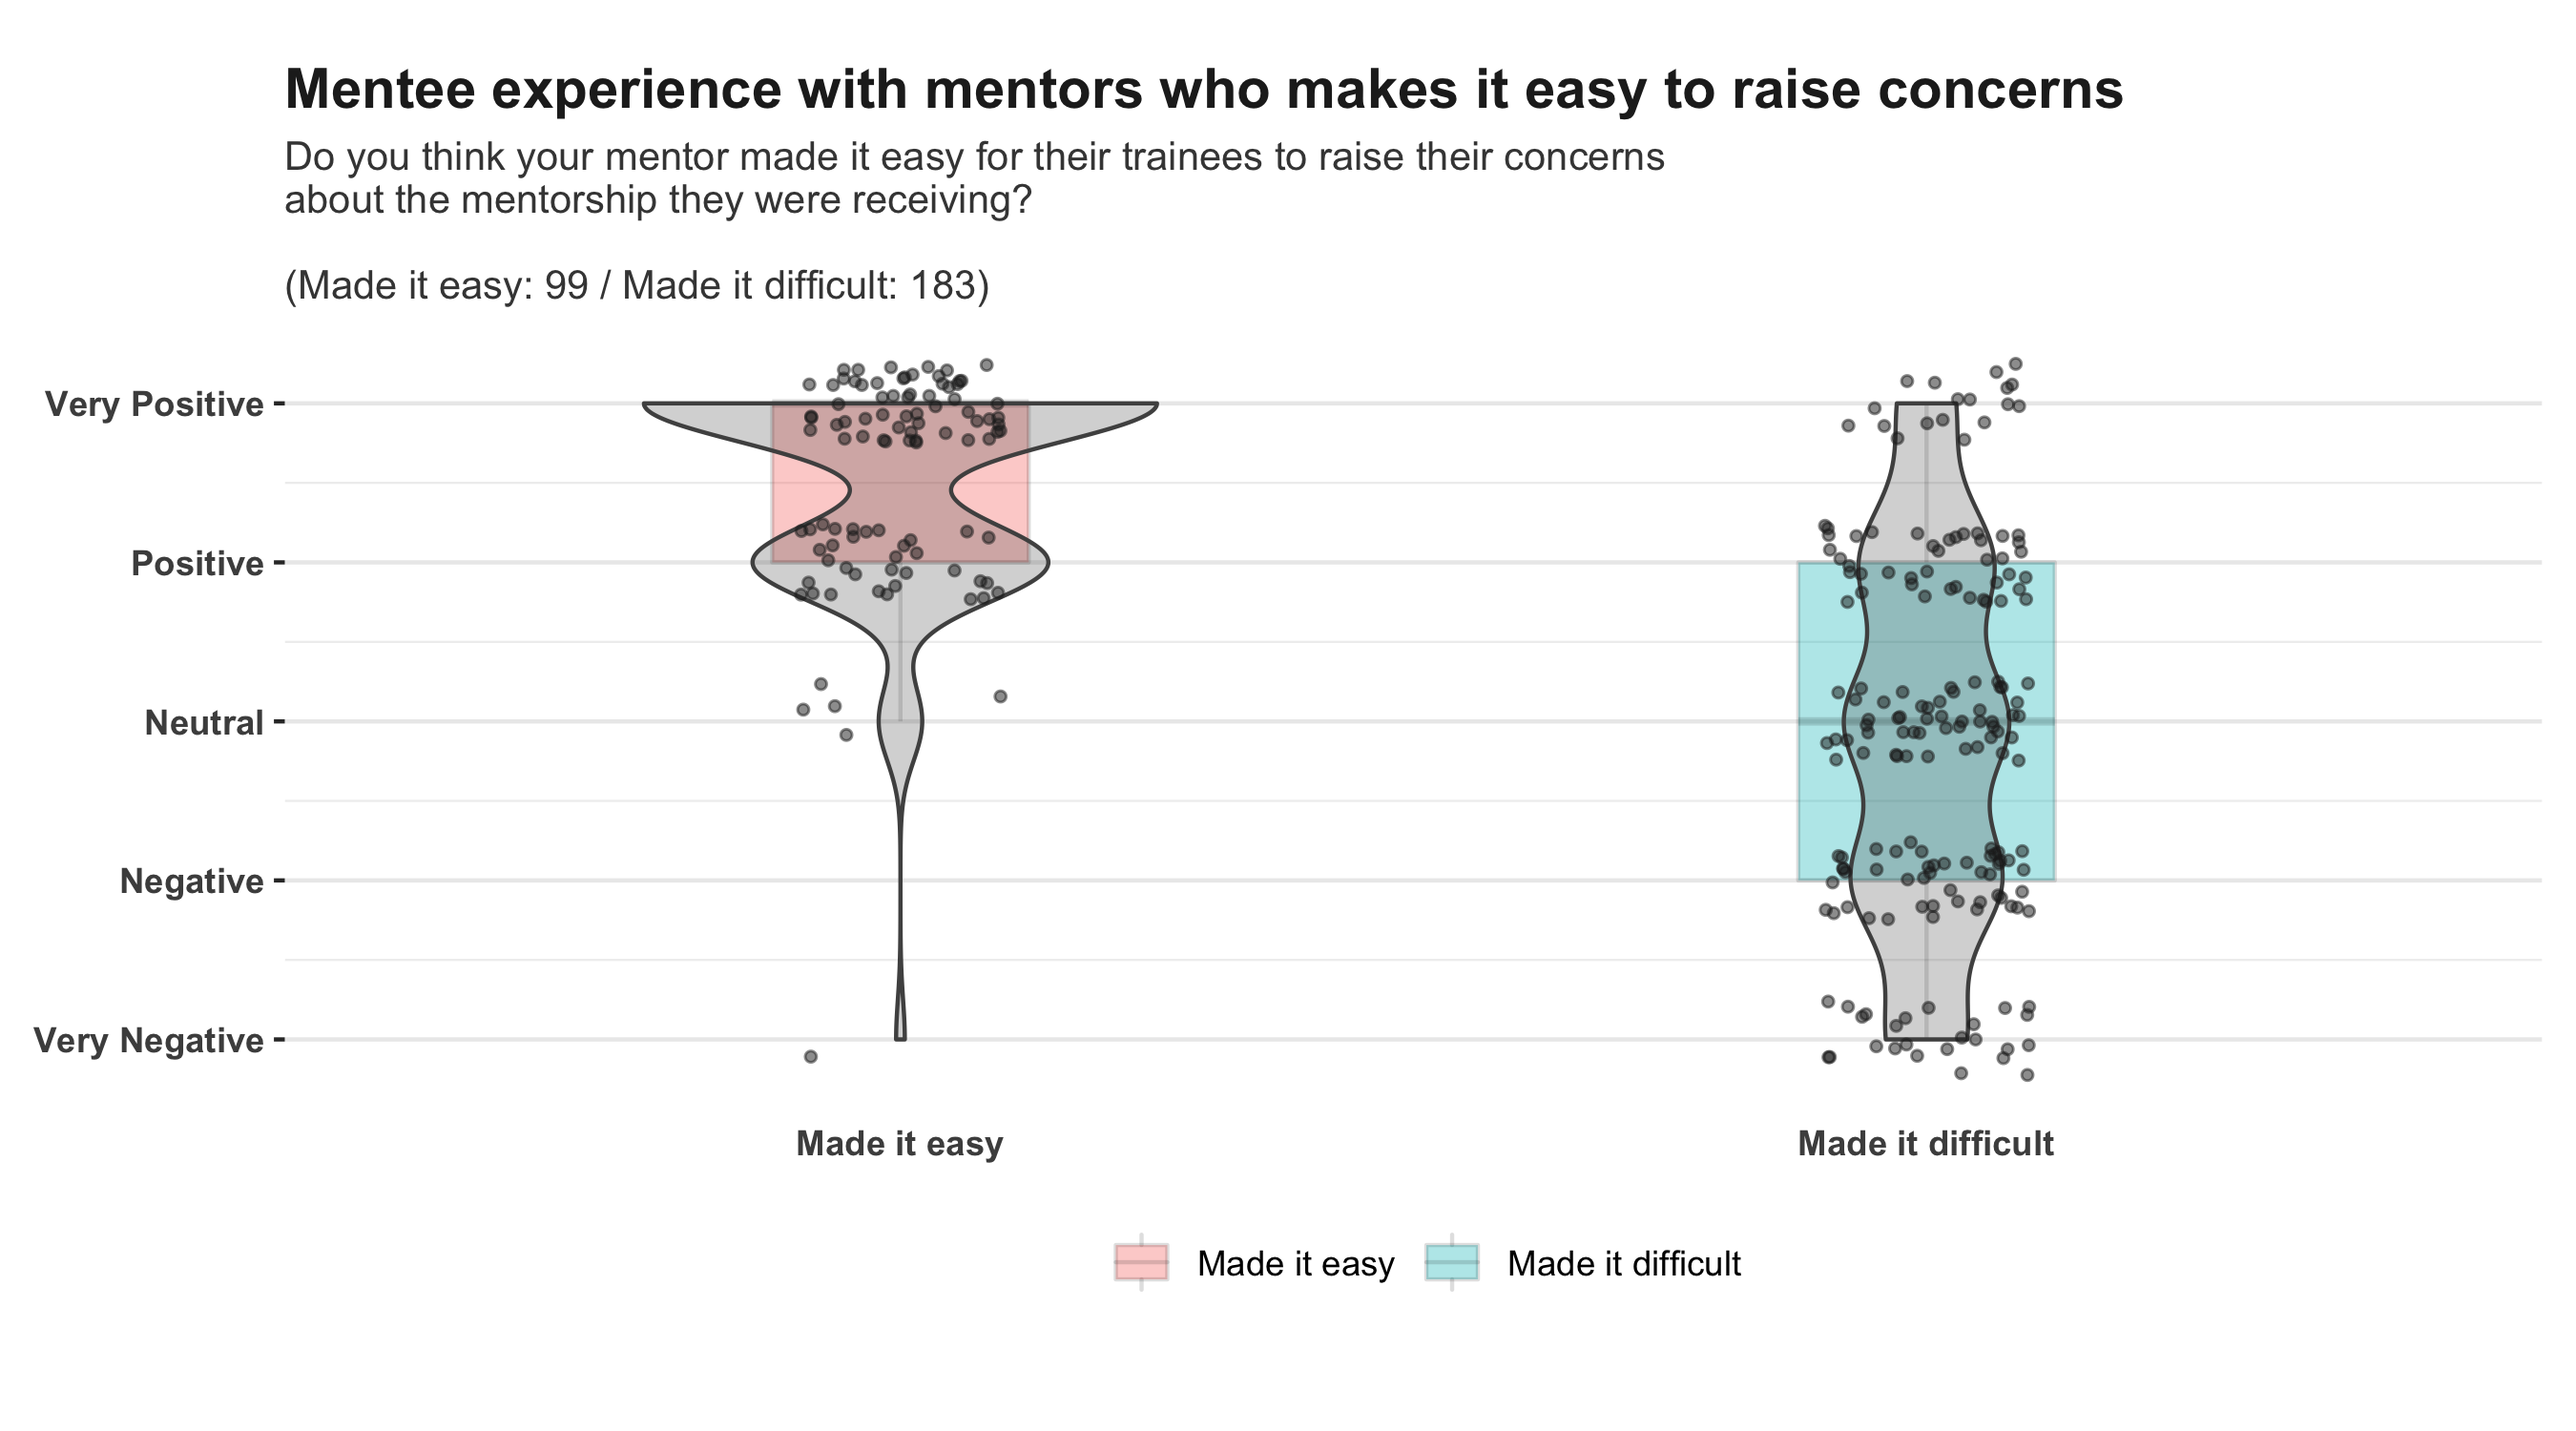
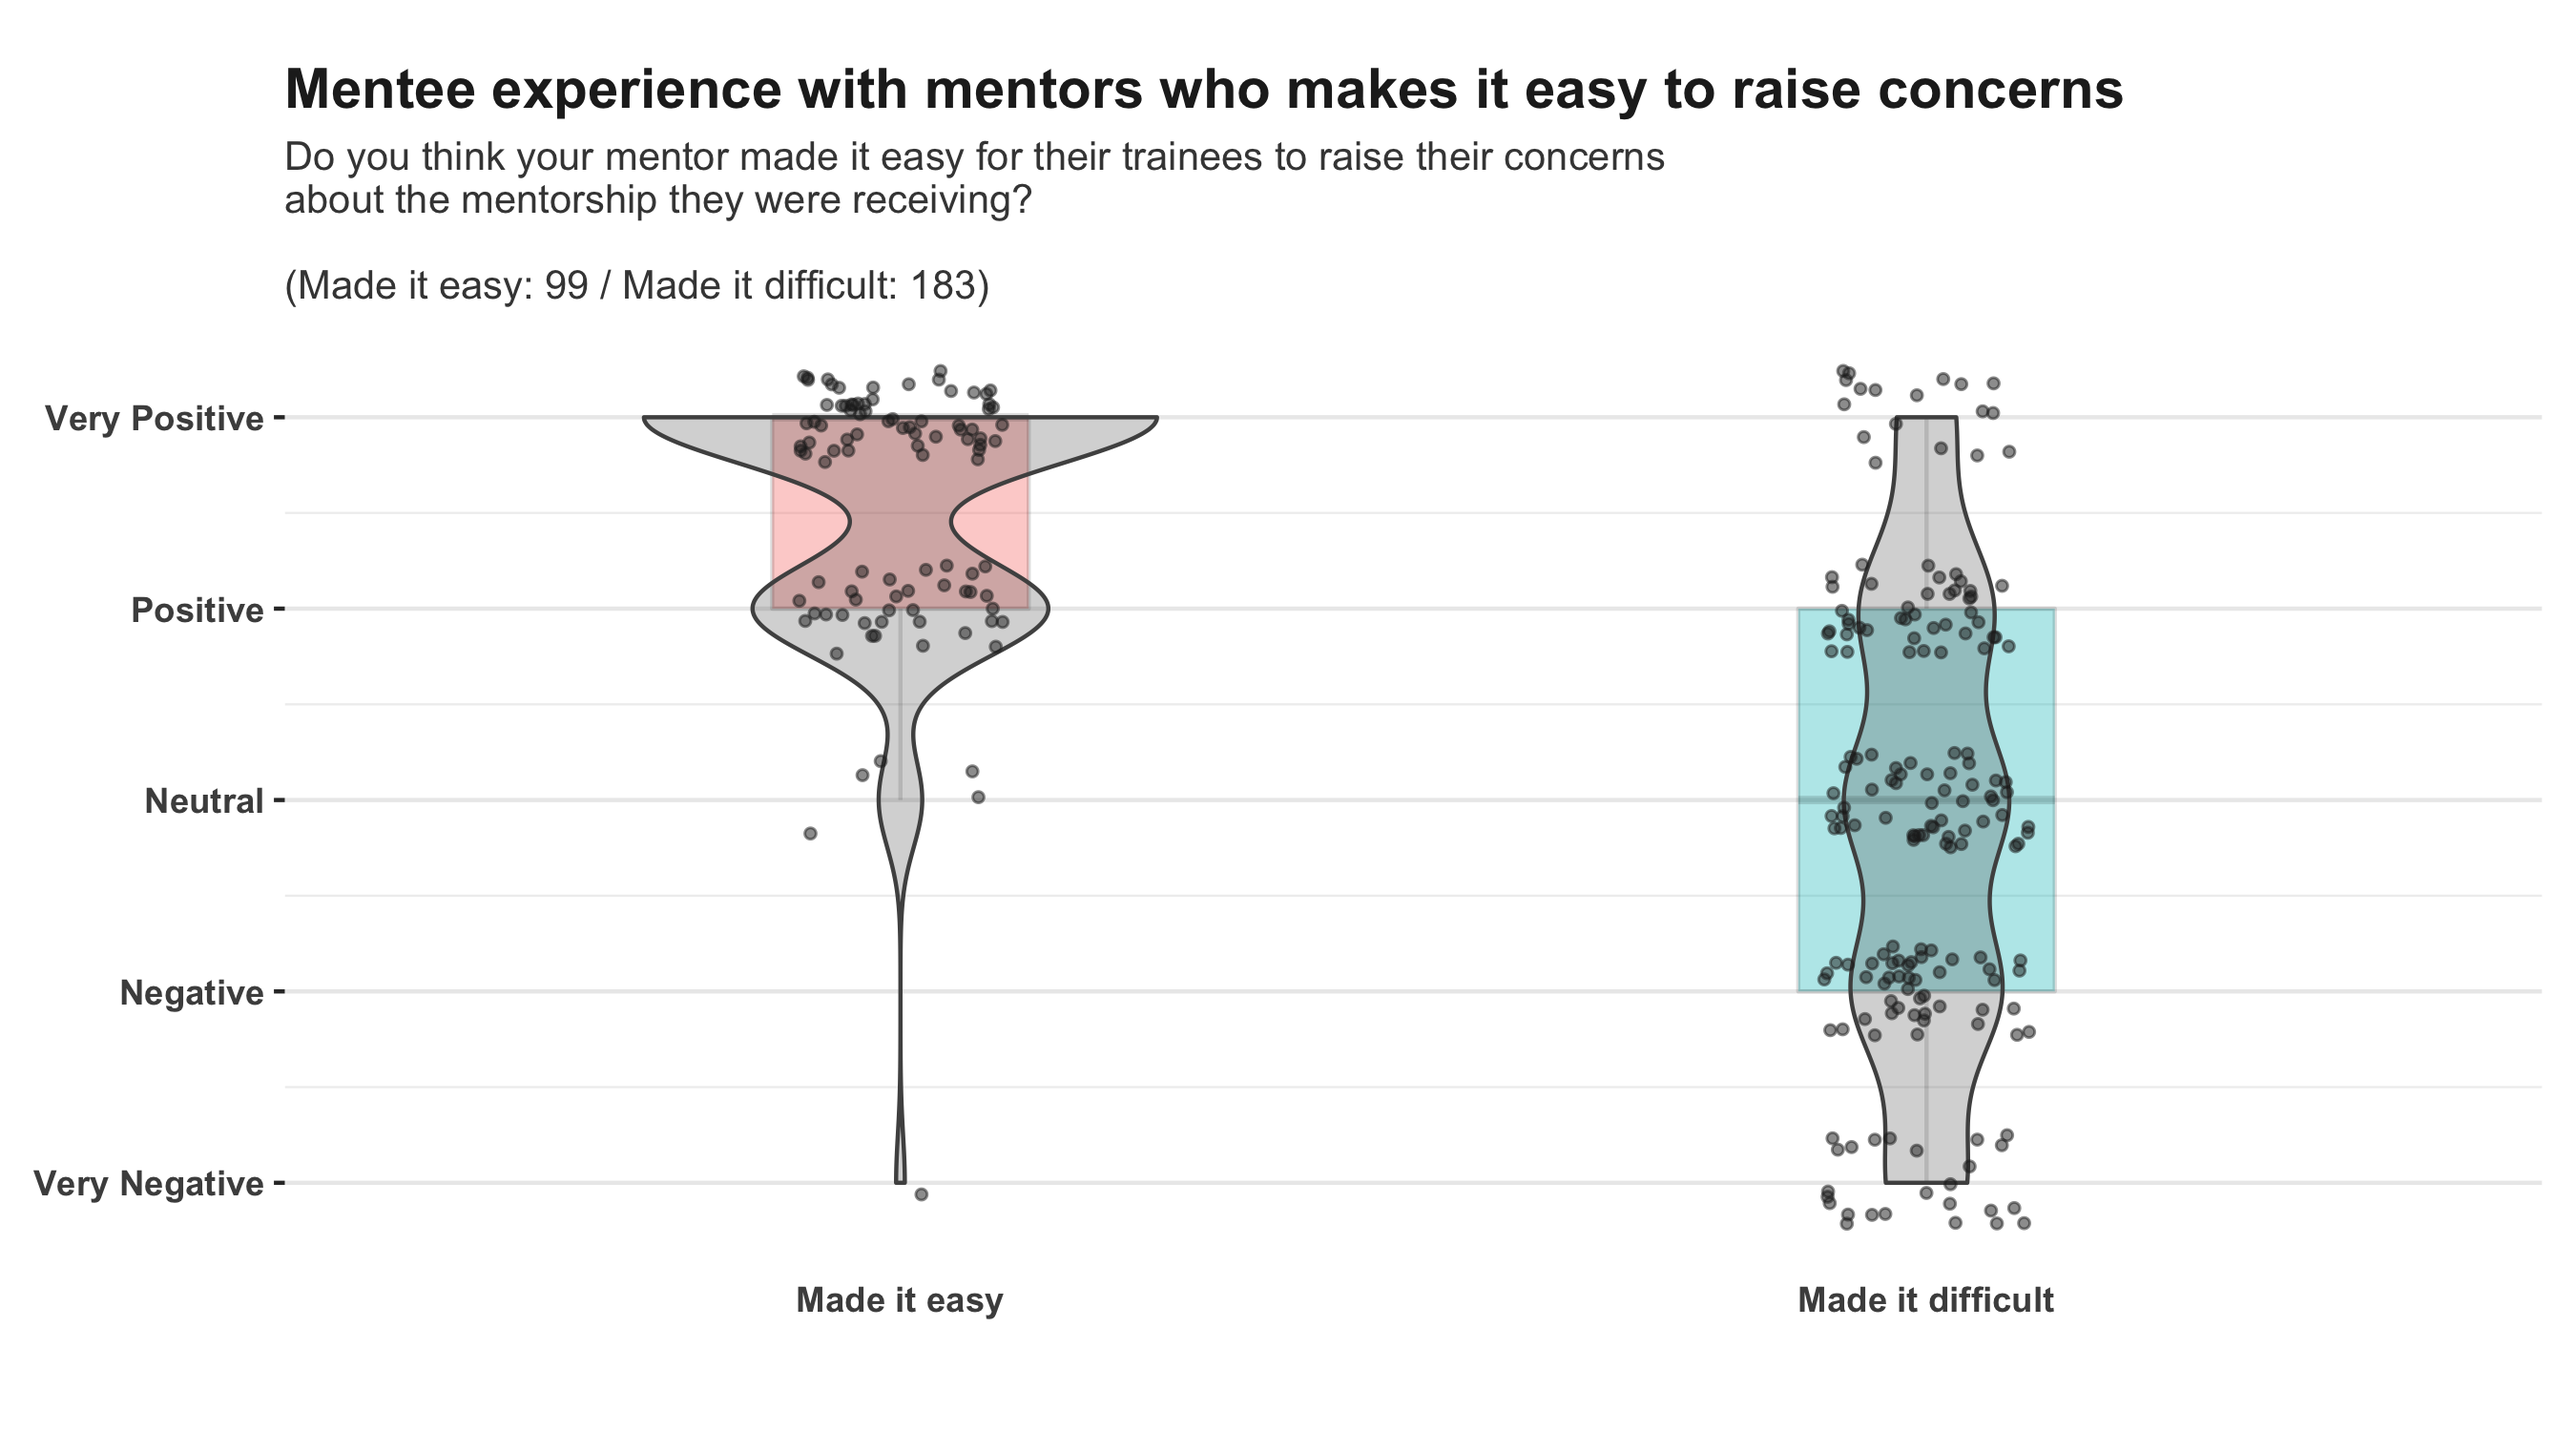
redundant legend goes away and other updates

diff --git a/_includes/_mentorship_data.md b/_includes/_mentorship_data.md
@@ -236,13 +236,13 @@ common to all other mentees trained by the same mentor:
 
 ![]({{images}}/experience_with_mentor_common_in_group_01-1.png)<!-- -->
 
-But interestingly, the extent of commonness of experiences were not
-uniform across distinct categories of mentorship outcomes. While only
-11.4% of the mentees who had a very positive experience with their
-mentors thought that their experience was specific to a few, as much as
-54.2% of the mentees who had a very negative experience with their
-mentor believed that their experience was specific to few people trained
-by the same mentor:
+But interestingly, the extent of commonness of experiences was related
+to mentorship outcomes. Only 11.4% of mentees who had a very positive
+mentoring experience thought their experience was specific to a few
+others trained by the same mentor (defined as “Very specific” or
+“Somewhat specific” survey responses). In contrast, as much as 54.2% of
+mentees who had a very negative experience believed their experience was
+specific to a few:
 
 ![]({{images}}/experience_with_mentor_common_in_group_02-1.png)<!-- -->
 
@@ -409,14 +409,14 @@ of awareness of mentors in their skills:
 
 ![]({{images}}/mentee_awareness-1.png)<!-- -->
 
-Mentors who were aware of their shortcomings in mentoring had more
+Mentors who were aware of their shortcomings in mentoring were more
 likely to have mentees with whom they had very positive relationships.
 
-Here is a data-driven tip: If you are an ECR considering to start
-working with a new mentor, ask them what they think is their biggest
-shortcoming in mentorship. Then ask the same question to their trainees.
-It may be a good sign if they match. If you are a mentor, think about
-what might be your shortcomings in mentoring people.
+Here is a data-driven tip: If you are an ECR considering a new mentor,
+ask them what they think is their biggest shortcoming in mentorship.
+Then ask the same question to their trainees. It may be a good sign if
+they match. If you are a mentor, think about what might be your
+shortcomings in mentoring people.
 
 ### Mentors asking for feedback
 
@@ -466,7 +466,7 @@ in raising concerns with mentorship they receive is quite stark:
 
 ![]({{images}}/mentor_mentorship_concerns_02-1.png)<!-- -->
 
-Almost none of the mentees had a negative experience with a mentors who
+Almost none of the mentees had a negative experience with mentors who
 made it easier to raise concerns. Creating an environment where it
 doesn’t take much to be able to raise concerns is indeed a way to ensure
 negative experiences do not evolve to very negative ones.
@@ -516,8 +516,8 @@ important role of these documents is that they push mentors to actually
 think about who they think they are (or perhaps more accurately, who
 they wish to be as mentors) and what they want their group to radiate as
 a cultural and intellectual gathering. So it is an extremely useful
-exercise for anyone who with to challenge themselves regardless of their
-career stage.
+exercise for anyone who wishes to challenge themselves regardless of
+their career stage.
 
 While I think mentors should draft their documents without reading
 others, here is a list of such documents I collected online that belong
